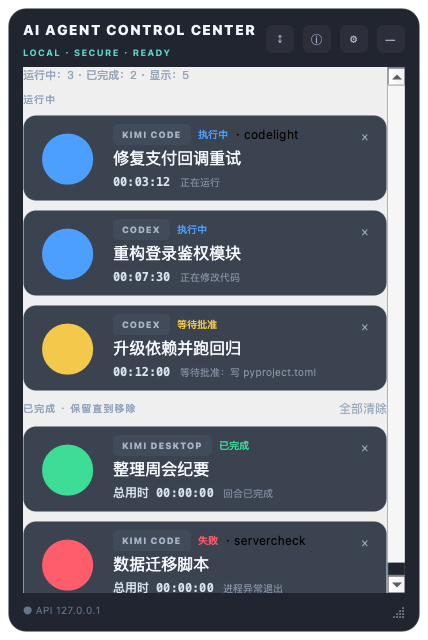
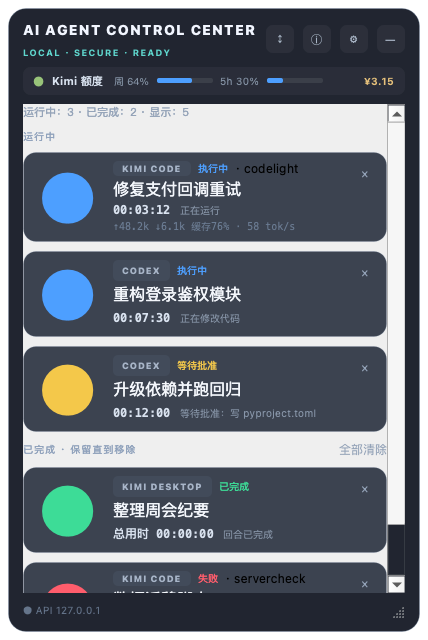
docs: refresh panel screenshot with quota bar and token usage row

diff --git a/scripts/capture_panel_screenshot.py b/scripts/capture_panel_screenshot.py
@@ -21,8 +21,11 @@ from aacc.automation import MacAutomation  # noqa: E402
 from aacc.automation_executor import AutomationExecutor  # noqa: E402
 from aacc.config import default_config  # noqa: E402
 from aacc.gui import MainWindow  # noqa: E402
+from aacc.kimi_oauth import save_credentials  # noqa: E402
+from aacc.kimi_quota import BoosterWallet, KimiQuota, QuotaDetail  # noqa: E402
 from aacc.models import AgentConfig, TaskConfig, TaskState, TerminalConfig  # noqa: E402
 from aacc.persistence import StateStore  # noqa: E402
+from aacc.quota_service import QuotaService  # noqa: E402
 from aacc.task_manager import TaskManager  # noqa: E402
 
 OUTPUT = Path(sys.argv[1]) if len(sys.argv) > 1 else Path("docs/images/panel-overview.png")
@@ -39,6 +42,7 @@ def _task(
     *,
     minutes_ago: float,
     work_dir: str | None = None,
+    usage: dict[str, object] | None = None,
 ) -> tuple[TaskConfig, TaskState]:
     config = TaskConfig(
         id=task_id,
@@ -55,9 +59,36 @@ def _task(
     if state.finished_at is not None:
         updates["finished_at"] = started
     state = state.model_copy(update=updates)
+    metadata: dict[str, object] = {}
     if work_dir:
-        state = state.model_copy(update={"metadata": {"work_dir": work_dir}})
+        metadata["work_dir"] = work_dir
+    if usage:
+        metadata["usage"] = usage
+    if metadata:
+        state = state.model_copy(update={"metadata": metadata})
     return config, state
+
+
+def _demo_quota() -> KimiQuota:
+    return KimiQuota(
+        weekly=QuotaDetail(
+            used=64,
+            limit=100,
+            remaining=36,
+            reset_at=datetime.now(UTC) + timedelta(days=3, hours=2),
+            percentage=64,
+        ),
+        five_hour=QuotaDetail(
+            used=30,
+            limit=100,
+            remaining=70,
+            reset_at=datetime.now(UTC) + timedelta(hours=2, minutes=40),
+            percentage=30,
+        ),
+        total_quota=QuotaDetail(used=0, limit=0, remaining=0, reset_at=None, percentage=0),
+        membership_level="LEVEL_ADVANCED",
+        booster=BoosterWallet(status="STATUS_ACTIVE", is_enabled=True, balance_yuan=3.15),
+    )
 
 
 def main() -> int:
@@ -67,11 +98,18 @@ def main() -> int:
     store = StateStore(tmp / "demo.db")
     store.initialize(config.tasks)
     manager = TaskManager(config, store)
+    # Fake authorized quota service so the QuotaBar renders populated; the
+    # demo quota is pushed via the service's own signal below.
+    quota_config_dir = tmp / "quota"
+    save_credentials(quota_config_dir, {"auth_method": "api_key", "api_key": "sk-demo"})
+    quota_service = QuotaService(quota_config_dir, version="demo", interval_seconds=3600)
     window = MainWindow(
         manager,
         AutomationExecutor(MacAutomation(config)),
         enable_tray=False,
         settings=QSettings(str(tmp / "s.ini"), QSettings.Format.IniFormat),
+        quota_service=quota_service,
+        open_url=lambda _url: None,
     )
 
     demo = [
@@ -79,14 +117,18 @@ def main() -> int:
               "RUNNING", "正在修改代码", minutes_ago=7.5),
         _task("kimi:demo-payment", 2, "修复支付回调重试", "kimi_code", "Kimi Code",
               "RUNNING", "正在运行", minutes_ago=3.2,
-              work_dir="/Users/dev/Desktop/codelight"),
+              work_dir="/Users/dev/Desktop/codelight",
+              usage={"total_input_tokens": 48_200, "output_tokens": 6_100,
+                     "cache_read_pct": 76, "speed_tps": 58}),
         _task("codex:demo-deps", 3, "升级依赖并跑回归", "codex_cli", "Codex",
               "WAITING_APPROVAL", "等待批准：写 pyproject.toml", minutes_ago=12.0),
         _task("kimi_desktop:demo-notes", 4, "整理周会纪要", "kimi_desktop", "Kimi Desktop",
               "COMPLETED", "回合已完成", minutes_ago=25.0),
         _task("kimi:demo-migrate", 5, "数据迁移脚本", "kimi_code", "Kimi Code",
               "ERROR", "进程异常退出", minutes_ago=41.0,
-              work_dir="/Users/dev/Desktop/servercheck"),
+              work_dir="/Users/dev/Desktop/servercheck",
+              usage={"total_input_tokens": 12_300, "output_tokens": 1_200,
+                     "cache_read_pct": 68, "speed_tps": 42}),
     ]
     for task_config, task_state in demo:
         manager.register(task_config, task_state)
@@ -95,6 +137,7 @@ def main() -> int:
     window.set_kimi_desktop_selected_ids({"demo-notes"})
 
     window.show()
+    quota_service.quota_updated.emit(_demo_quota())
     window.resize(window.sizeHint())
     app.processEvents()
     OUTPUT.parent.mkdir(parents=True, exist_ok=True)